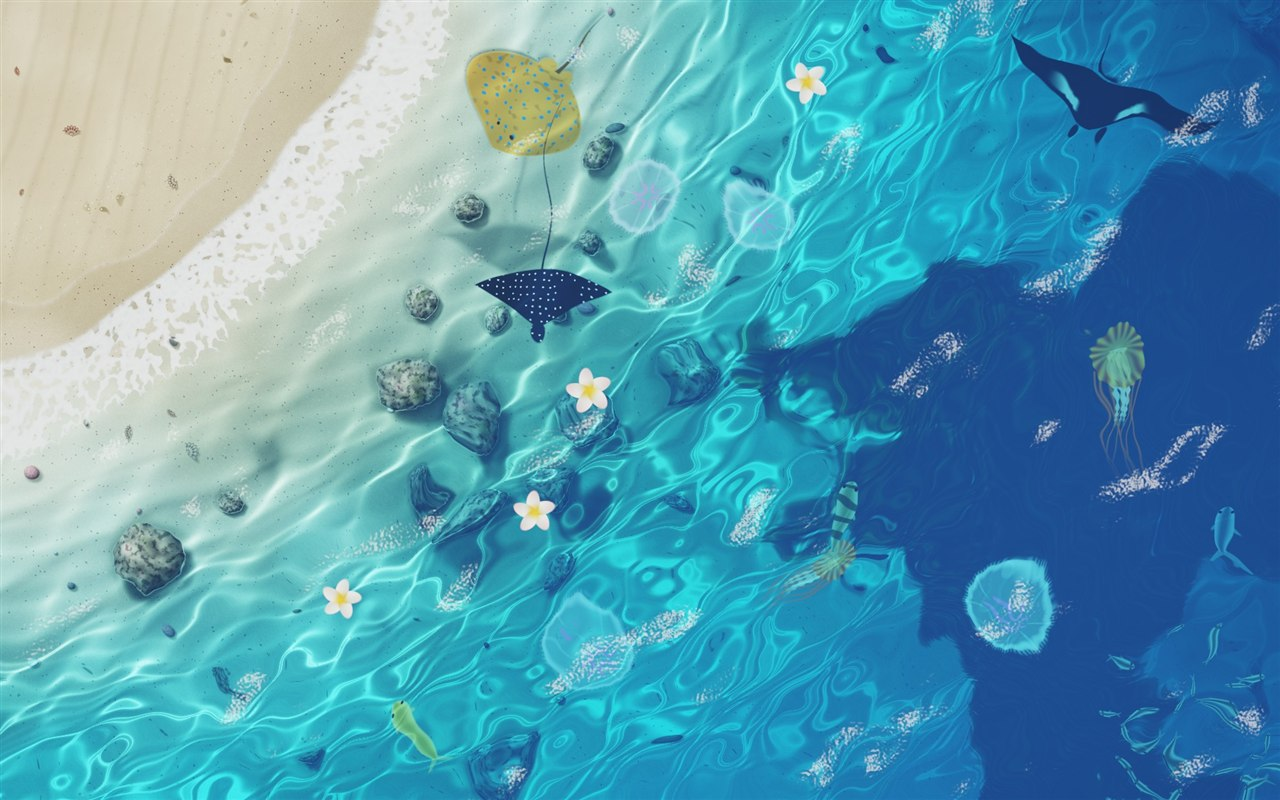
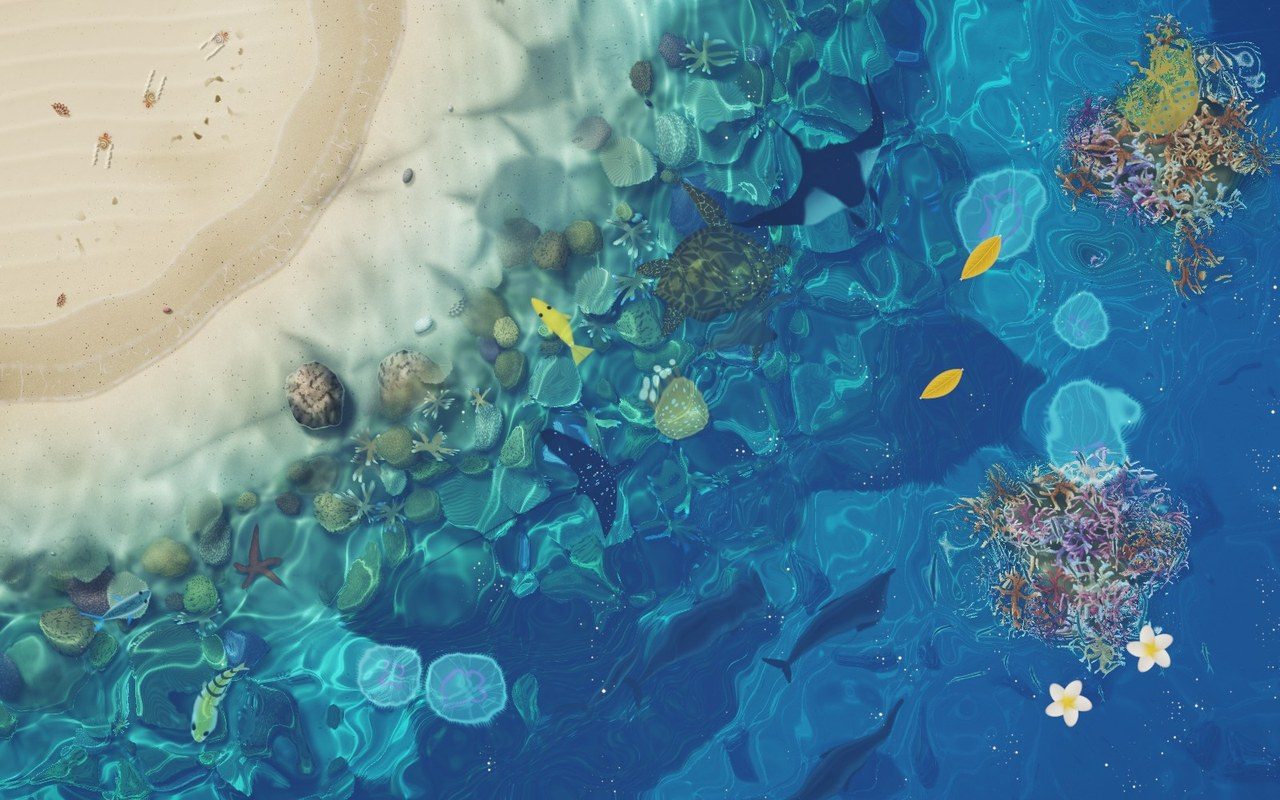
New previews and a portfolio-style README
The previews were from an early version. Re-shot them: the README's hero
animation (dolphins passing, one leaping, with the reef shark, turtle,
rays, jellies and both coral gardens), the Lively and Wallpaper Engine
preview and thumbnail, and a gallery in docs/ with morning, sunset and
night views and close-ups of a coral garden, a turtle, the reef shark, a
dolphin leap and the glowing jellies at night.

The README now leads with that gallery and a short list of technical
highlights (water optics, the wave equation on the GPU, procedural
generation, the cold-start work and how it ships), in English and
Chinese.

diff --git a/README.md b/README.md
@@ -2,11 +2,30 @@
 
 ![Shallow Sea](shallow-sea/preview.webp)
 
-An interactive tropical shore seen from above. Waves come in sets and wash up the beach, the water deepens from clear shallows over coral reefs and turquoise to deep blue, and fish, rays, sea turtles and jellyfish swim through it, with a pod of dolphins or a reef shark passing now and then. Everything is rendered live in WebGL2. It runs as a desktop wallpaper in [Lively Wallpaper](https://github.com/rocksdanister/lively) on Windows, or in any browser, phones included.
+An interactive tropical shore seen from above. Waves come in sets and wash up the beach, the water deepens from clear shallows over coral reefs and turquoise to deep blue, and fish, rays, sea turtles and jellyfish swim through it, with a pod of dolphins or a reef shark passing now and then. Everything is rendered live in WebGL2. It runs as a desktop wallpaper in [Lively Wallpaper](https://github.com/rocksdanister/lively) or Wallpaper Engine on Windows, or in any browser, phones included.
 
-**Play it in your browser: <https://lego514.github.io/shallow-sea/>** — the gear in the bottom-right corner opens the settings (English or 中文).
+**▶ Play it in your browser: <https://lego514.github.io/shallow-sea/>** — the gear in the bottom-right corner opens the settings (English or 中文).
 
 [中文說明](#中文說明)
+
+| Morning | Sunset | Night |
+| --- | --- | --- |
+| ![Morning](docs/morning.jpg) | ![Sunset](docs/sunset.jpg) | ![Night: glowing jellies and plankton, the shoreline lit up by the surf](docs/night.jpg) |
+
+| Coral garden | Sea turtle | Reef shark | Dolphin leap | Jellies at night |
+| --- | --- | --- | --- | --- |
+| ![Coral garden](docs/coral-garden.jpg) | ![Sea turtle](docs/turtle.jpg) | ![Blacktip reef shark](docs/shark.jpg) | ![Dolphin leap](docs/dolphin-leap.jpg) | ![Moon and spotted lagoon jellies at night](docs/night-jellies.jpg) |
+
+## Technical highlights
+
+- **No engine, no libraries**: one hand-written `sea.js` (about 3,800 lines of JavaScript and GLSL) on plain WebGL2.
+- **Water optics from physics**: refraction through the moving surface (Snell's law, n = 1.333); caustics whose brightness is 1 / |det J| of the refraction map, i.e. light conserved; per-channel Beer–Lambert absorption, so red goes first and the water turns turquoise, then blue; Fresnel reflection; sun and moon glitter from individual ripple facets.
+- **Waves on the GPU**: interactive ripples solve the shallow-water wave equation, d²h/dt² = ∇·(c²∇h), with c² = (g/k)·tanh(kh) from the depth, so ripples slow, bunch up and bend toward the shore. Surf follows √(gh) wave speed, breaks according to wave height, and turns parallel to the beach as Snell's law predicts.
+- **Procedural world**: every seabed, coral reef and coral garden is generated from a seed; 15+ species are drawn as animated signed-distance shapes with their own behaviour (boids schooling, breathing turtles, leaping dolphins, patrolling sharks, fish fleeing predators).
+- **Performance work**: the first start after an update went from about 42 s to 6 s by splitting one huge seabed shader into five small single-output passes that the browser compiles in parallel (`KHR_parallel_shader_compile`), after finding that ANGLE on Direct3D 11 recompiles multi-render-target programs at their first draw.
+- **Shipped**: versioned releases for Lively Wallpaper and Wallpaper Engine, a web version deployed by GitHub Actions, and English / Chinese settings generated from one schema.
+
+More detail in [How it works](#how-it-works).
 
 ## Install as a wallpaper
 
@@ -69,6 +88,7 @@ shallow-sea/
   LivelyProperties.json  Lively's Customise panel (the web settings panel reads it too)
   project.json           the same settings for Wallpaper Engine (run `python tools/make_project_json.py` after changing LivelyProperties.json)
   thumbnail.jpg / preview.jpg / preview.gif / preview.webp   pictures for Lively and this README
+docs/                         the screenshots in this README
 .github/workflows/pages.yml   publishes the web version to GitHub Pages on every push to main
 ```
 
@@ -100,7 +120,9 @@ Open `http://localhost:8765/` (wallpaper version) or `http://localhost:8765/web.
 
 ## 中文說明
 
-從正上方看下去的一段熱帶海岸：浪一組一組沖上沙灘，海水從清澈的淺水、珊瑚礁、土耳其藍漸層到深藍色；魚群、魟魚、海龜（綠蠵龜、玳瑁、欖蠵龜）和水母在裡面游，偶爾還有一群海豚經過，有時會躍出水面。全部用 WebGL2 即時運算，可以當 Windows 上 [Lively Wallpaper](https://github.com/rocksdanister/lively) 的桌布，也可以直接在瀏覽器（含手機）玩。
+從正上方看下去的一段熱帶海岸：浪一組一組沖上沙灘，海水從清澈的淺水、珊瑚礁、土耳其藍漸層到深藍色；魚群、魟魚、海龜（綠蠵龜、玳瑁、欖蠵龜）和水母在裡面游，偶爾還有一群海豚經過（有時會躍出水面），或一隻黑鰭礁鯊沿著珊瑚礁巡游。全部用 WebGL2 即時運算，可以當 Windows 上 [Lively Wallpaper](https://github.com/rocksdanister/lively) 或 Wallpaper Engine 的桌布，也可以直接在瀏覽器（含手機）玩。
+
+**技術重點**：沒有用任何引擎或函式庫，一個手寫的 `sea.js`（約 3,800 行 JavaScript 與 GLSL）直接用 WebGL2。水的光學照物理算（Snell 折射、以折射映射 Jacobian 行列式計算的焦散、Beer–Lambert 分色吸收、Fresnel 反射、水面微面元反光）；漣漪在 GPU 上解淺水波方程，波速隨水深變化（c = √(gh)）；海床、珊瑚礁和十幾種生物全部程序化生成。把一個巨大的海床著色器拆成五段平行編譯後，更新後第一次啟動從約 42 秒縮短到約 6 秒。
 
 **線上玩：<https://lego514.github.io/shallow-sea/>**（右下角齒輪可以調設定、切換中文／English）
 
